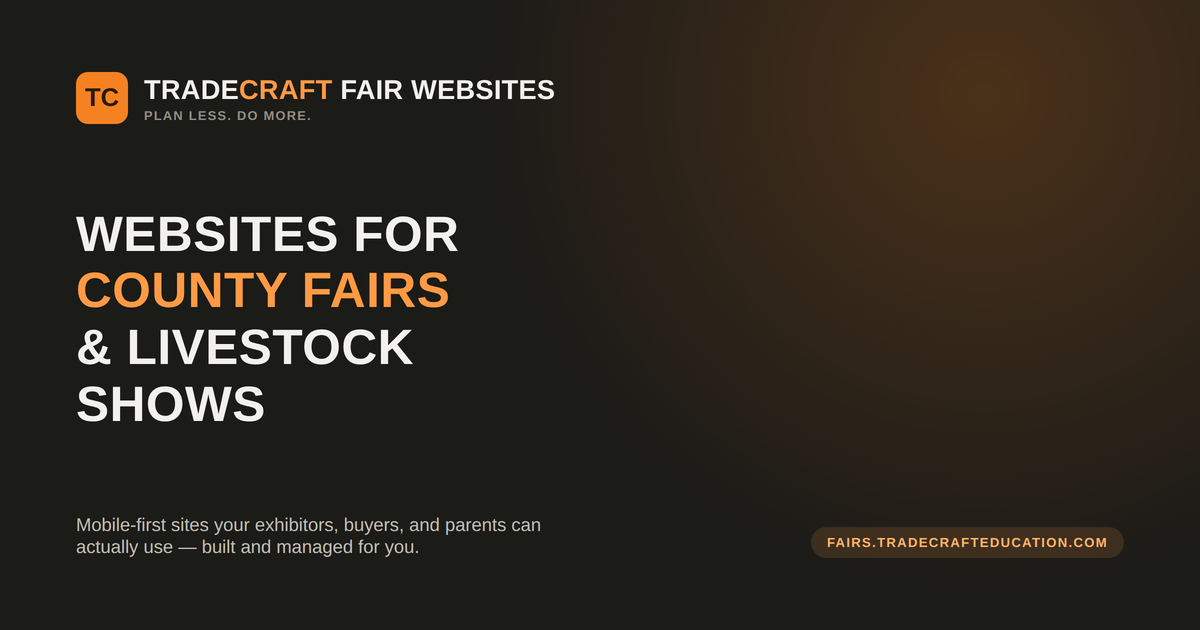
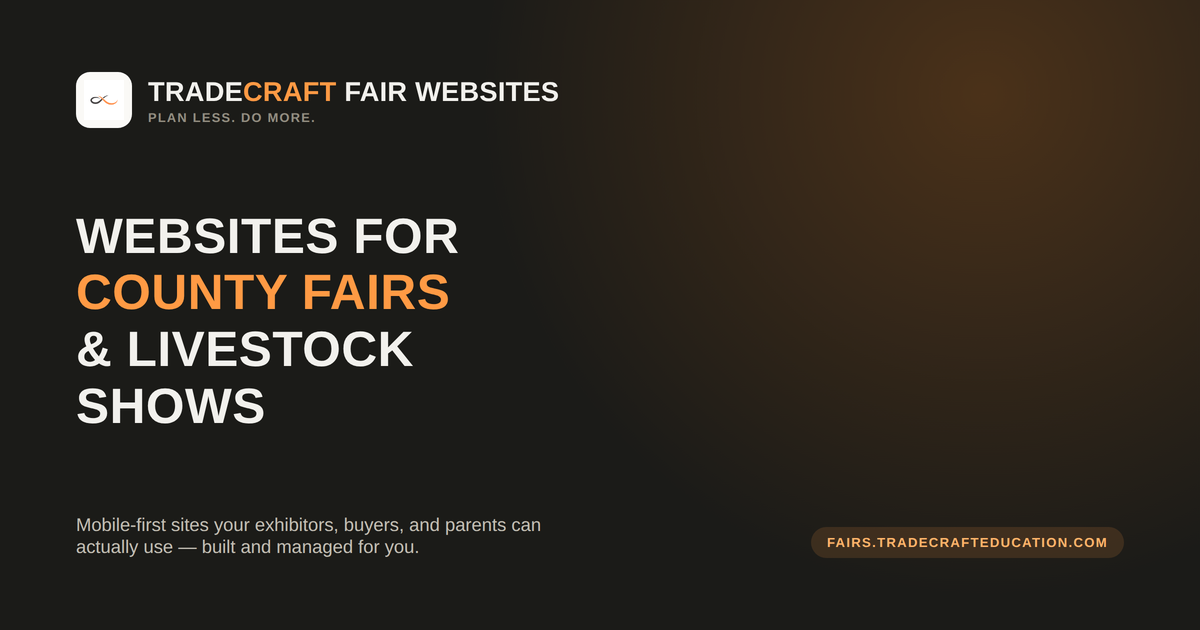
Add files via upload

Changed region(s): [[0.0617, 0.3317, 0.4008, 0.5127], [0.0617, 0.0905, 0.4625, 0.2111], [0.0617, 0.5127, 0.3392, 0.6937]]

diff --git a/index.html b/index.html
@@ -7,7 +7,7 @@
 <meta name="description" content="TradeCraft designs, builds, and manages fast, mobile-first websites for county fairs, livestock shows, and youth expos — see live examples and starting pricing.">
 <link rel="canonical" href="https://fairs.tradecrafteducation.com/">
 <meta name="theme-color" content="#F58220">
-<link rel="icon" href="/favicon.svg" type="image/svg+xml">
+<link rel="icon" href="/favicon.png" type="image/png">
 
 <!-- Open Graph (Facebook, LinkedIn, Slack, iMessage, most link previews) -->
 <meta property="og:type" content="website">
@@ -371,6 +371,49 @@
   .step h3 { font-size: 1.0rem; font-weight: 600; }
   .step p { color: var(--ink-muted); font-size: 0.92rem; font-family: 'Work Sans', sans-serif; }
 
+  /* FAQ */
+  .faq-list { margin-top: 24px; display: flex; flex-direction: column; gap: 10px; }
+  .faq-item {
+    background: var(--surface);
+    border: 1px solid var(--surface-line);
+    border-radius: 8px;
+    padding: 4px 20px;
+  }
+  .faq-item summary {
+    padding: 16px 0;
+    font-family: 'Oswald', sans-serif;
+    font-weight: 600;
+    font-size: 1rem;
+    text-transform: none;
+    letter-spacing: normal;
+    color: var(--ink);
+    cursor: pointer;
+    list-style: none;
+    display: flex;
+    align-items: center;
+    justify-content: space-between;
+    gap: 16px;
+  }
+  .faq-item summary::-webkit-details-marker { display: none; }
+  .faq-item summary::after {
+    content: "+";
+    flex: none;
+    font-family: 'Work Sans', sans-serif;
+    font-size: 1.3rem;
+    font-weight: 600;
+    color: var(--accent-strong);
+    transition: transform 0.15s ease;
+  }
+  .faq-item[open] summary::after { transform: rotate(45deg); }
+  .faq-item p {
+    margin: 0 0 18px;
+    color: var(--ink-muted);
+    font-size: 0.94rem;
+    font-family: 'Work Sans', sans-serif;
+    text-transform: none;
+    max-width: 68ch;
+  }
+
   /* CTA footer */
   .cta {
     background: var(--cta-bg);
@@ -543,6 +586,37 @@
         <h3>Review, launch, and we manage it</h3>
         <p>You review it live before it goes public. After launch, TradeCraft handles hosting and routine updates all year.</p>
       </div>
+    </div>
+  </div>
+</section>
+
+<section id="faq">
+  <div class="wrap">
+    <div class="section-head">
+      <span class="eyebrow">Common questions</span>
+      <h2>Before you ask</h2>
+    </div>
+    <div class="faq-list">
+      <details class="faq-item" open>
+        <summary>We already use ShoWorks, FairEntry, a ticket provider, or an auction platform — do we still need this?</summary>
+        <p>Yes, and it's not a replacement for any of those. TradeCraft builds the public-facing website — the fast, mobile-friendly front door where exhibitors, buyers, and parents find your schedule, rules, and dates. When someone's ready to actually enter, buy a ticket, or register as a buyer, the site sends them straight to whatever system you already use for that. You keep the specialized tools you rely on; the website is what makes them easy to find.</p>
+      </details>
+      <details class="faq-item">
+        <summary>How long does it take to get our site live?</summary>
+        <p>It depends mainly on how quickly we get your content — dates, rules, sponsor logos, photos, and so on — and how many rounds of review you want before launch. The intake form is the real starting point; once we have what we need, we'll give you a specific timeline for your show.</p>
+      </details>
+      <details class="faq-item">
+        <summary>Can we make our own updates, or do we have to go through you every time?</summary>
+        <p>Routine changes go through us, and that's by design, not a limitation — no software to learn, no risk of accidentally breaking something the week before your show. Annual Website Care includes a full show-year rollover plus four additional update requests, with a normal 3–5 business day turnaround (faster during show week). Typical requests: new dates, a replaced rulebook, sponsor changes, results, and similar routine updates.</p>
+      </details>
+      <details class="faq-item">
+        <summary>Do we own our website and domain?</summary>
+        <p>Yes. You own your domain — TradeCraft doesn't hold it hostage. We build, host, and manage the site itself as part of your plan, but the domain stays yours the same way it always has.</p>
+      </details>
+      <details class="faq-item">
+        <summary>We're just a livestock show now, but might add more later — is that a problem?</summary>
+        <p>Not at all. Every TradeCraft site is built on the same underlying system, just with different modules turned on. Starting with the Livestock Show package and later adding carnival, entertainment, tickets, or vendors as your show grows is a straightforward upgrade, not a rebuild.</p>
+      </details>
     </div>
   </div>
 </section>
